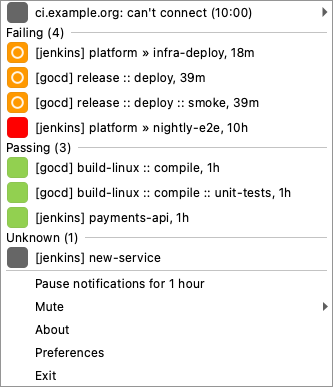
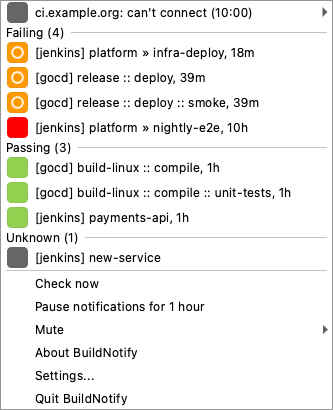
Use platform menu labels and a current About text
Preferences... (Settings... on macOS), About BuildNotify, Quit BuildNotify (Exit on Windows).

diff --git a/test/integration/app_menu_test.py b/test/integration/app_menu_test.py
@@ -18,6 +18,11 @@ from test.project_builder import ProjectBuilder
 from test.utils import FakeConnection, fake_content
 
 
+@pytest.fixture(autouse=True)
+def linux_labels(monkeypatch):
+    monkeypatch.setattr("buildnotifylib.ui.app_menu.PLATFORM", "linux")
+
+
 @pytest.mark.functional
 def test_should_set_menu_items_for_projects(qtbot):
     conf = ConfigBuilder().server("someurl").build()
@@ -47,9 +52,9 @@ def test_should_set_menu_items_for_projects(qtbot):
         "Check now",
         "Pause notifications for 1 hour",
         "Mute",
-        "About",
-        "Preferences",
-        "Exit",
+        "About BuildNotify",
+        "Preferences...",
+        "Quit BuildNotify",
     ]
 
 
@@ -84,9 +89,9 @@ def test_should_suffix_build_time(qtbot):
         "Check now",
         "Pause notifications for 1 hour",
         "Mute",
-        "About",
-        "Preferences",
-        "Exit",
+        "About BuildNotify",
+        "Preferences...",
+        "Quit BuildNotify",
     ]
 
 
@@ -151,9 +156,9 @@ def test_should_sort_by_name(qtbot):
         "Check now",
         "Pause notifications for 1 hour",
         "Mute",
-        "About",
-        "Preferences",
-        "Exit",
+        "About BuildNotify",
+        "Preferences...",
+        "Quit BuildNotify",
     ]
 
 
@@ -209,9 +214,9 @@ def test_should_add_display_prefix(qtbot):
         "Check now",
         "Pause notifications for 1 hour",
         "Mute",
-        "About",
-        "Preferences",
-        "Exit",
+        "About BuildNotify",
+        "Preferences...",
+        "Quit BuildNotify",
     ]
 
 
@@ -284,9 +289,9 @@ def test_should_consider_prefix_for_sorting(qtbot):
         "Check now",
         "Pause notifications for 1 hour",
         "Mute",
-        "About",
-        "Preferences",
-        "Exit",
+        "About BuildNotify",
+        "Preferences...",
+        "Quit BuildNotify",
     ]
 
 
@@ -331,9 +336,9 @@ def test_should_show_recent_build_first(qtbot):
         "Check now",
         "Pause notifications for 1 hour",
         "Mute",
-        "About",
-        "Preferences",
-        "Exit",
+        "About BuildNotify",
+        "Preferences...",
+        "Quit BuildNotify",
     ]
 
 
@@ -394,9 +399,9 @@ def test_should_sort_and_label_projects_with_unparseable_build_time(qtbot):
         "Check now",
         "Pause notifications for 1 hour",
         "Mute",
-        "About",
-        "Preferences",
-        "Exit",
+        "About BuildNotify",
+        "Preferences...",
+        "Quit BuildNotify",
     ]
 
 
@@ -501,9 +506,9 @@ def test_should_show_an_enabled_row_with_a_short_error_and_its_time_for_an_unava
         "Check now",
         "Pause notifications for 1 hour",
         "Mute",
-        "About",
-        "Preferences",
-        "Exit",
+        "About BuildNotify",
+        "Preferences...",
+        "Quit BuildNotify",
     ]
     assert actions[0].isEnabled()
 
@@ -663,7 +668,14 @@ def test_should_show_an_empty_state_without_servers(mute_menu):
 
     app_menu.update([])
 
-    assert texts(app_menu.menu) == ["No servers yet", "Add a server...", "", "About", "Preferences", "Exit"]
+    assert texts(app_menu.menu) == [
+        "No servers yet",
+        "Add a server...",
+        "",
+        "About BuildNotify",
+        "Preferences...",
+        "Quit BuildNotify",
+    ]
     assert not action(app_menu.menu, "No servers yet").isEnabled()
 
 
@@ -972,3 +984,17 @@ def test_check_now_reloads(qtbot):
     action = next(a for a in app_menu.menu.actions() if a.text() == "Check now")
     with qtbot.waitSignal(app_menu.reload_data, timeout=1000):
         action.trigger()
+
+
+@pytest.mark.functional
+@pytest.mark.parametrize(
+    ("platform", "tail"),
+    [
+        ("darwin", ["About BuildNotify", "Settings...", "Quit BuildNotify"]),
+        ("win32", ["About BuildNotify", "Preferences...", "Exit"]),
+    ],
+)
+def test_menu_labels_per_platform(mute_menu, monkeypatch, platform, tail):
+    monkeypatch.setattr("buildnotifylib.ui.app_menu.PLATFORM", platform)
+
+    assert texts(mute_menu().menu)[-3:] == tail

diff --git a/buildnotifylib/ui/app_menu.py b/buildnotifylib/ui/app_menu.py
@@ -1,3 +1,4 @@
+import sys
 import webbrowser
 from collections import Counter
 from collections.abc import Callable, Sequence
@@ -13,6 +14,7 @@ from buildnotifylib.adapters.settings_store import SettingsStore
 from buildnotifylib.core import humanize
 from buildnotifylib.core.diff import key
 from buildnotifylib.core.errors import details, phrase, server_label, server_name
+from buildnotifylib.core.menu_labels import about_html, labels
 from buildnotifylib.core.model import Project, ServerSnapshot
 from buildnotifylib.core.mute import (
     Clock,
@@ -32,6 +34,8 @@ from buildnotifylib.ui.build_icons import BuildIcons
 from buildnotifylib.ui.dialogs.preferences.dialog import PreferencesDialog
 from buildnotifylib.ui.dialogs.server.dialog import ServerConfigurationDialog
 from buildnotifylib.version import VERSION
+
+PLATFORM = sys.platform
 
 OVERFLOW = 15
 """Above this many project rows, Passing projects move into a submenu."""
@@ -128,9 +132,10 @@ class AppMenu(QtCore.QObject):
             self.menu.addMenu(self.create_mute_menu())
         else:
             self.add_empty_state()
-        self.menu.addAction(QAction("About", self.menu, triggered=self.about_clicked))
-        self.menu.addAction(QAction("Preferences", self.menu, triggered=self.preferences_clicked))
-        self.menu.addAction(QAction("Exit", self.menu, triggered=self.exit))
+        text = labels(PLATFORM)
+        self.menu.addAction(QAction(text.about, self.menu, triggered=self.about_clicked))
+        self.menu.addAction(QAction(text.preferences, self.menu, triggered=self.preferences_clicked))
+        self.menu.addAction(QAction(text.quit, self.menu, triggered=self.exit))
 
     def add_empty_state(self) -> None:
         self.menu.addAction("No servers yet").setEnabled(False)
@@ -175,10 +180,7 @@ class AppMenu(QtCore.QObject):
         QMessageBox.about(
             self.menu,
             f"About BuildNotify {VERSION}",
-            f"<b>BuildNotify {VERSION}</b> has been developed using PySide6 and serves as a build notification tool "
-            "for cruise control. In case of any suggestions/bugs,"
-            'please visit <a href="https://git.io/buildnotify">https://git.io/buildnotify</a> '
-            "and provide your feedback.",
+            about_html(VERSION),
         )
 
     def preferences_clicked(self, widget: QWidget):

diff --git a/test/unit/menu_labels_test.py b/test/unit/menu_labels_test.py
@@ -1,0 +1,23 @@
+import pytest
+
+from buildnotifylib.core.menu_labels import about_html, labels
+
+
+@pytest.mark.parametrize(
+    ("platform", "preferences", "quit_"),
+    [
+        ("darwin", "Settings...", "Quit BuildNotify"),
+        ("linux", "Preferences...", "Quit BuildNotify"),
+        ("win32", "Preferences...", "Exit"),
+    ],
+)
+def test_labels_follow_platform_norms(platform, preferences, quit_):
+    found = labels(platform)
+    assert (found.preferences, found.about, found.quit) == (preferences, "About BuildNotify", quit_)
+
+
+def test_about_describes_feeds_and_links_to_project():
+    text = about_html("1.2.3")
+    assert "cctray" in text and "GitHub Actions" in text
+    assert "cruise control" not in text
+    assert "https://github.com/anaynayak/buildnotify" in text

diff --git a/buildnotifylib/core/menu_labels.py b/buildnotifylib/core/menu_labels.py
@@ -1,0 +1,26 @@
+from dataclasses import dataclass
+
+PROJECT_URL = "https://github.com/anaynayak/buildnotify"
+
+
+@dataclass(frozen=True)
+class MenuLabels:
+    preferences: str
+    about: str
+    quit: str
+
+
+def labels(platform: str) -> MenuLabels:
+    return MenuLabels(
+        preferences="Settings..." if platform == "darwin" else "Preferences...",
+        about="About BuildNotify",
+        quit="Exit" if platform == "win32" else "Quit BuildNotify",
+    )
+
+
+def about_html(version: str) -> str:
+    return (
+        f"<b>BuildNotify {version}</b> shows CI build status from cctray feeds and GitHub Actions "
+        "in the system tray.<br><br>"
+        f'Suggestions and bug reports are welcome at <a href="{PROJECT_URL}">{PROJECT_URL}</a>.'
+    )

diff --git a/docs/usage.md b/docs/usage.md
@@ -90,6 +90,7 @@ On Windows, `cmd.exe` has no quoting that makes `&`, `|`, `^` and `%` safe, so a
 5. The tray tooltip lists failing projects, such as `2 failing: api, web`, with the server count, any pause (`Notifications paused until 11:00`) and the last checked time below it. When every server is down and none has projects from an earlier fetch, it says `Can't reach any server` instead.
 6. Clicking on any project in the tray menu would take you to the project page on the CI server.
 7. A server that can't be reached gets a row at the top of the menu with its menu prefix (or its host), a short reason and the time it happened, such as `jenkins: can't connect (10:00)` or `ci.example.org: sign-in failed (10:00)`. The row opens a submenu with the full error, a hint when there is one, `Retry now`, which checks every server again, and `Edit server...`, which opens the server dialog. Its projects from the last successful fetch stay in the list.
+8. The bottom of the menu has `Check now`, which polls every server immediately instead of waiting for the polling interval, then the pause and mute items, `Preferences...` (`Settings...` on macOS), `About BuildNotify` and `Quit BuildNotify` (`Exit` on Windows). The About box describes the app and links to the project page.
 
 ![Tray menu](images/projectlist.png)
 
